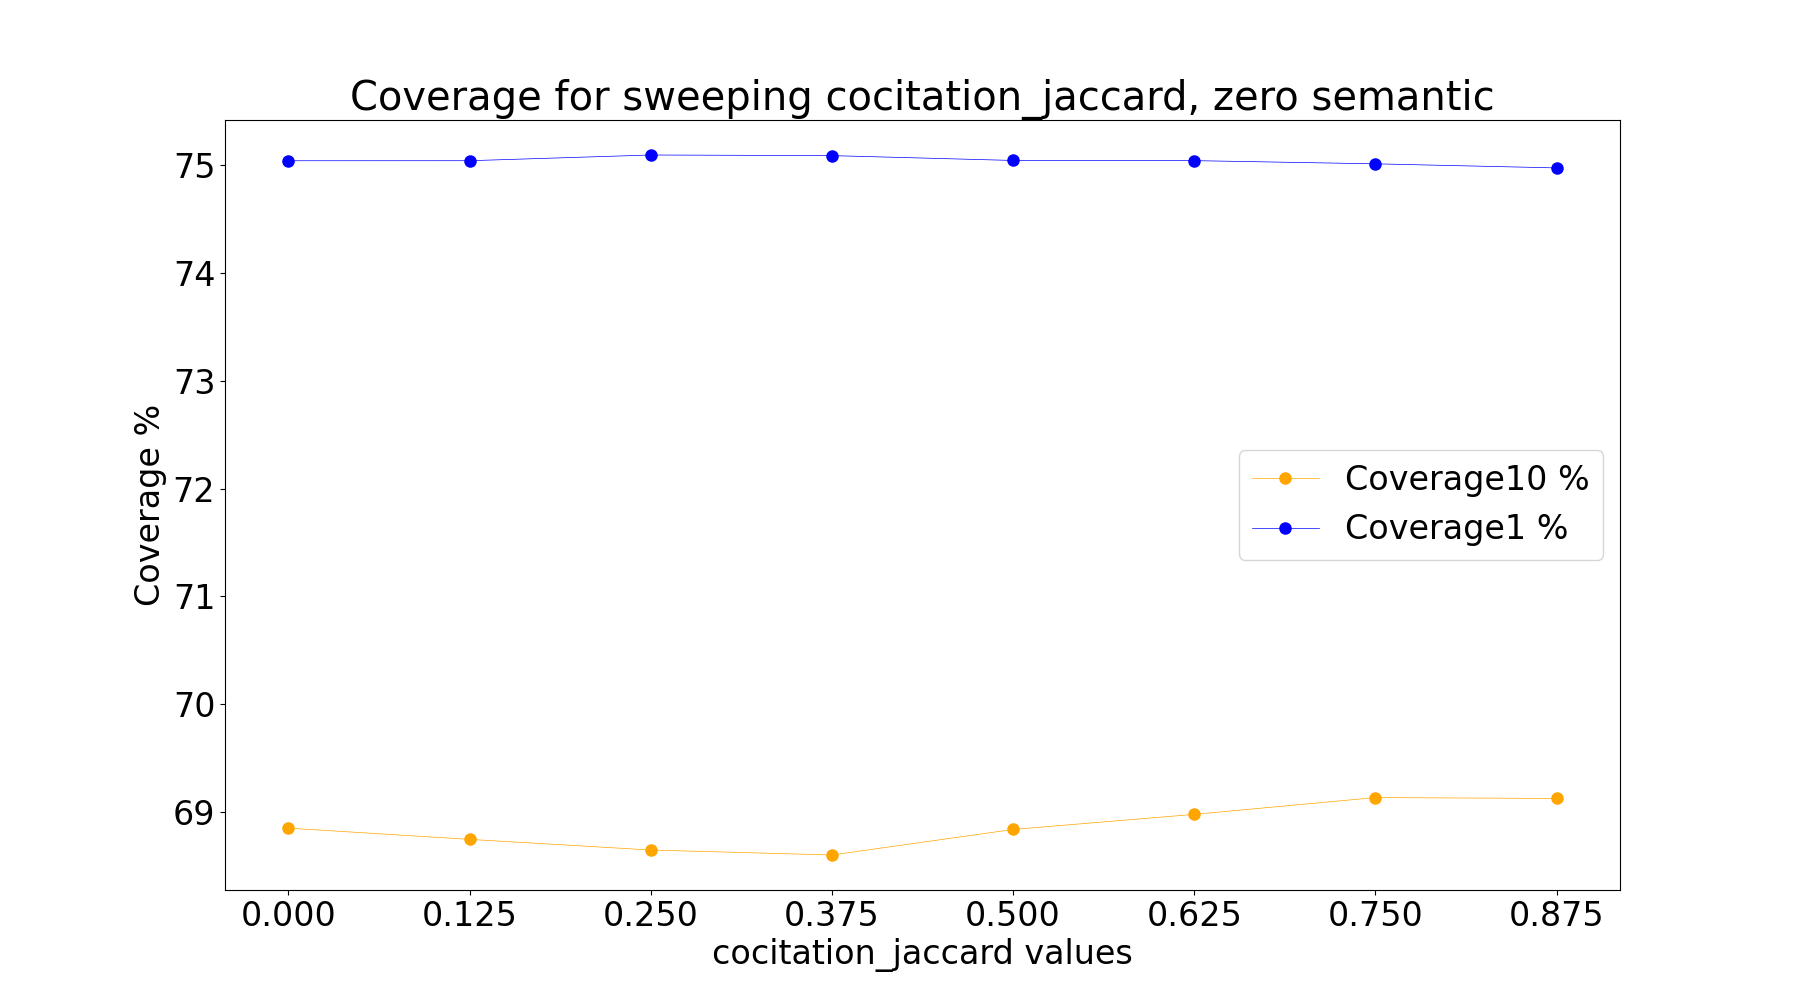
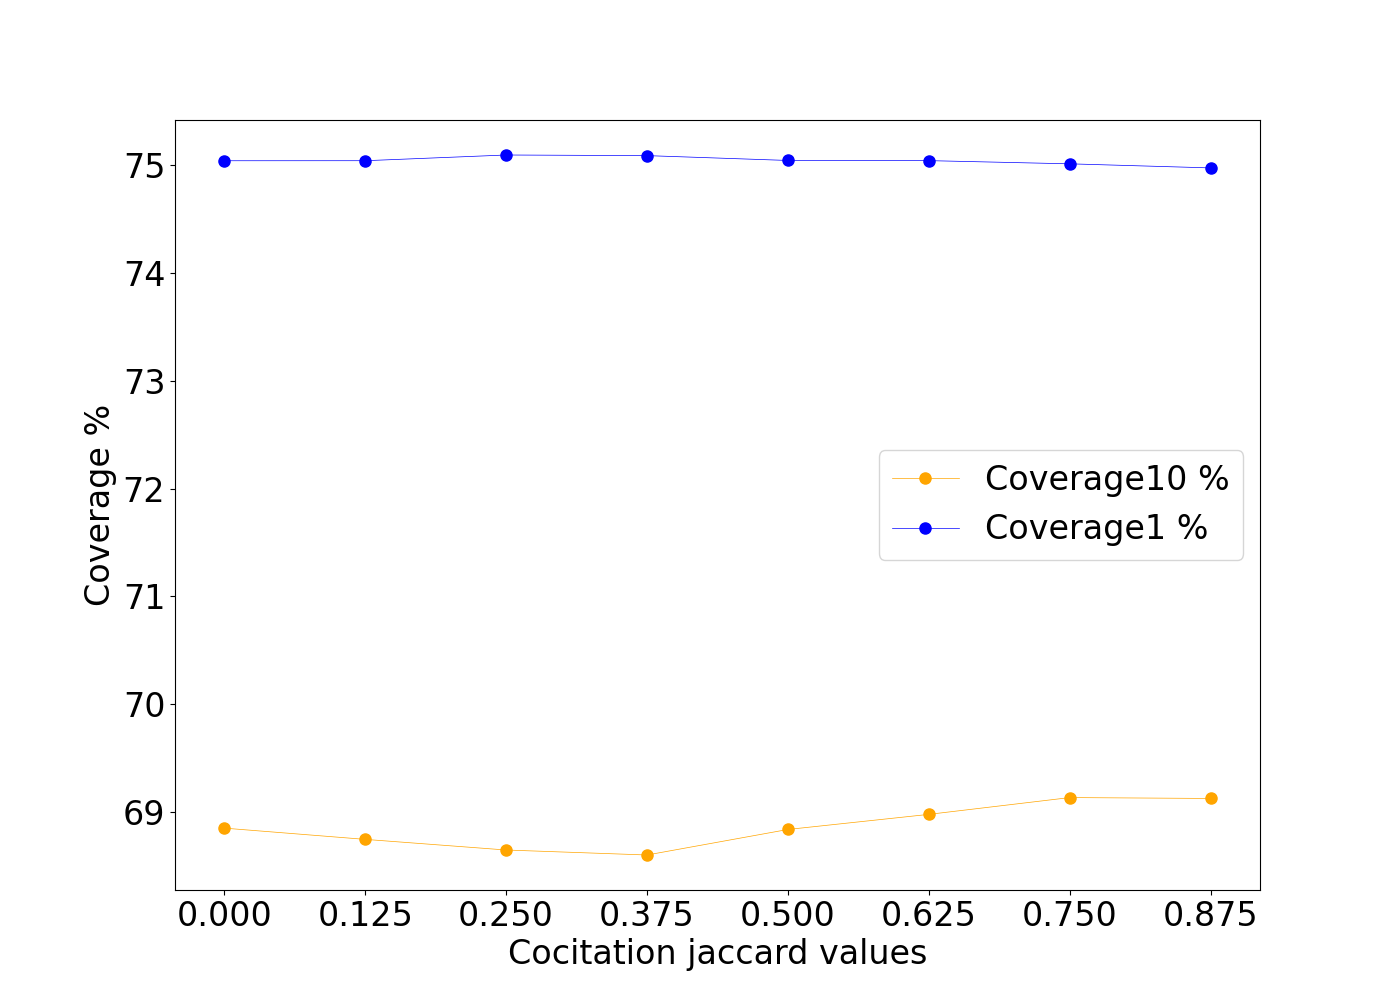
Fixed second set of figures

diff --git a/step_10_cluster/weighting_clustering_pipeline.py b/step_10_cluster/weighting_clustering_pipeline.py
@@ -634,9 +634,8 @@ def CPM_gt10_plotter(files_dir = 'files/results/sweeping_res_constant_weight/clu
         coverage10_list.append(cov10)
 
 
-    plt.rcParams.update({'font.size': 16})  # Adjust the font size as needed
+    plt.rcParams.update({'font.size': 18})  # Adjust the font size as needed
 
-    #kiiiiiir
     print(gt10)
     print(x_label)
 
@@ -856,21 +855,26 @@ def plot_sweep_topological_features_only(result_dir, figure_save_dir_base):
         uw_cpm_1 = clustering_dict_loaded_unweighted['stats']['cpm1']
 
         # figure_save_dir_base = 'figures/topo_only_individual_sweep/'
-        plt.figure(figsize=(18, 10))  # Adjust the width and height as needed
+        plt.figure(figsize=(14, 10))  # Adjust the width and height as needed
 
 
         plt.plot(feature_values, coverage_10_array, 'o-', color='orange', linewidth=0.5, markersize=8, label='Coverage10 %')
         plt.plot(feature_values, coverage_1_array, 'o-', color='blue', linewidth=0.5, markersize=8, label='Coverage1 %')
 
+        ft = feature.split('_')
+        ft0 = ft[0][0].upper() + ft[0][1:]
 
-        plt.xlabel(f'{feature} values')
-        plt.ylabel('Coverage %')
 
-        if contains_bias == False:
-            plt.title(f'Coverage for sweeping {feature}, zero semantic')
+        ft_str = ft0 + ' ' + ft[1]
 
-        else:
-            plt.title(f'Coverage for sweeping {feature}, zero semantic and bias {bias}')
+        plt.xlabel(f'{ft_str} values', fontsize = 24)
+        plt.ylabel('Coverage %', fontsize = 24)
+
+        # if contains_bias == False:
+        #     plt.title(f'Coverage for sweeping {feature}, zero semantic')
+        #
+        # else:
+        #     plt.title(f'Coverage for sweeping {feature}, zero semantic and bias {bias}')
 
         plt.xticks(feature_values)
         # Show legend
@@ -884,15 +888,15 @@ def plot_sweep_topological_features_only(result_dir, figure_save_dir_base):
 
 
 
-        plt.figure(figsize=(20, 10))  # Adjust the width and height as needed
+        plt.figure(figsize=(14, 10))  # Adjust the width and height as needed
 
         plt.plot(feature_values, cpm_10_array, 'o-', color='orange', linewidth=0.5, markersize=8, label='cpm10')
         plt.plot(feature_values, cpm_1_array, 'o-', color='blue', linewidth=0.5, markersize=8, label='cpm1')
 
 
-        plt.xlabel(f'{feature} values')
-        plt.ylabel('cpm')
-        plt.title(f'cpm for sweeping {feature} and zero semantic')
+        plt.xlabel(f'{ft_str} values', fontsize = 24)
+        plt.ylabel('CPM', fontsize = 24)
+        # plt.title(f'cpm for sweeping {feature} and zero semantic')
         plt.xticks(feature_values)
         plt.legend()
 
@@ -1113,10 +1117,10 @@ def standardize_clustering(iGraph, nx_Graph, current_weighting, best_found_res, 
 
 
 if __name__ == '__main__': # 248213
-    CPM_gt10_plotter()
-    exit(0)
-    record_final_statistics('files/results/topo_only_scale_1_10')
-    exit(0)
+    # CPM_gt10_plotter()
+    # exit(0)
+    # record_final_statistics('files/results/topo_only_scale_1_10')
+    # exit(0)
     # clustering_dir = 'files/clusterings/'
     # CPM_gt10_plotter(clustering_dir)
 
